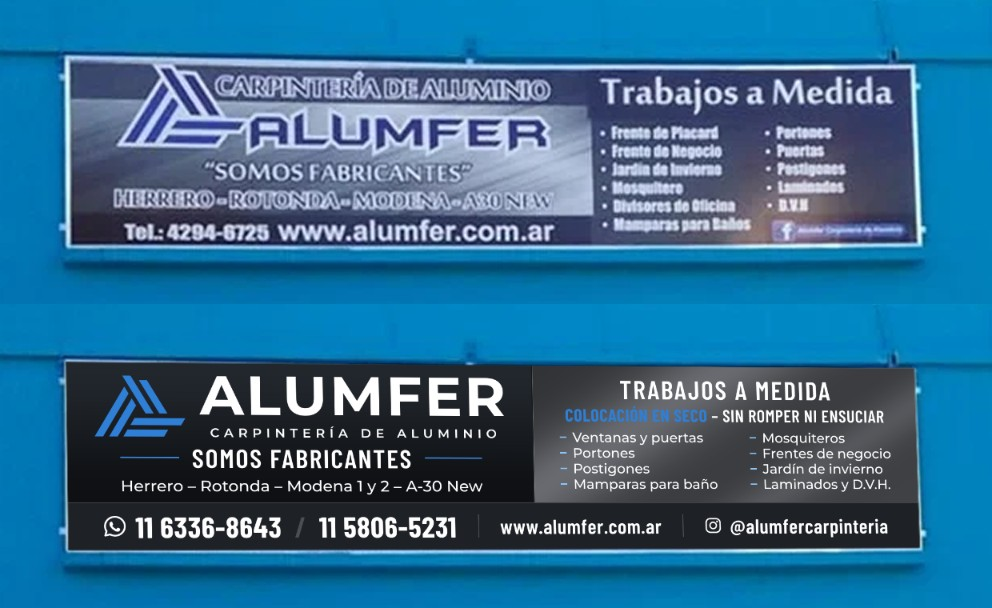
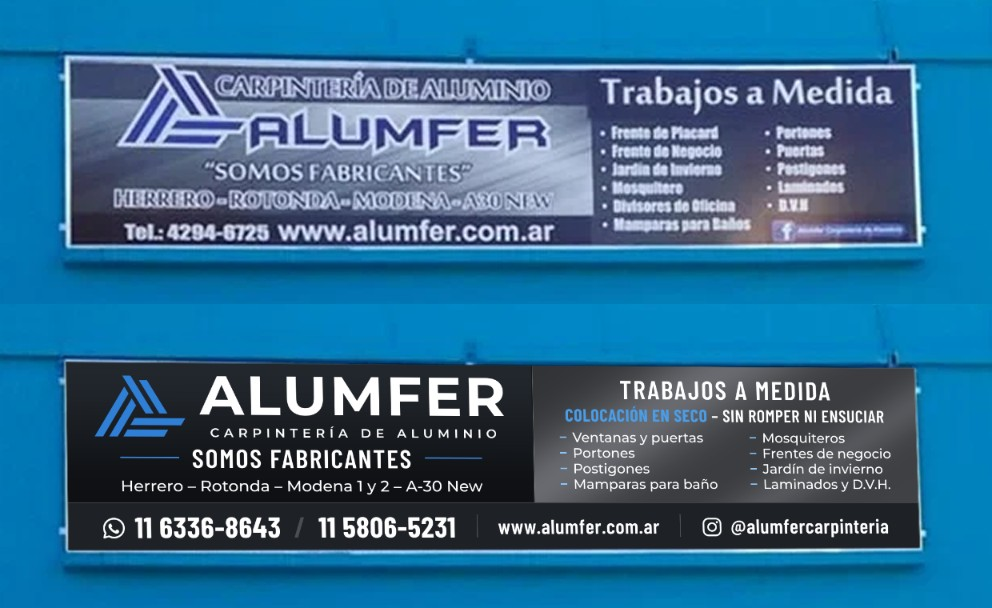
Cartel del frente: Colocación en seco en azul claro de marca; íconos parejos
Colocación en seco pasa al azul claro de la marca (#4A9DE8) para leerse
sobre el metal; Instagram al mismo peso visual que WhatsApp y ambos
íconos centrados con su texto.

Claude-Session: https://claude.ai/code/session_01WbdF2nhts4fFgad8iUooNo

diff --git a/creative/content/projects/2026-09-cartel-frente/cartel.html b/creative/content/projects/2026-09-cartel-frente/cartel.html
@@ -45,7 +45,7 @@ html,body{background:#777}
 .right h2{font-family:C;font-weight:600;font-size:57px;letter-spacing:3.5px;text-transform:uppercase;line-height:.9;white-space:nowrap;text-align:center;padding-left:3.5px}
 /* frase de colocación: condensada como los otros destacados, a lo ancho del panel */
 .right .seco{align-self:center;margin:12px 0 16px;font-family:C;font-weight:600;font-size:38px;letter-spacing:1px;text-transform:uppercase;line-height:1;white-space:nowrap}
-.right .seco b{font-weight:700;color:#2f7fd6} /* mismo azul que el isologo */
+.right .seco b{font-weight:700;color:#4a9de8} /* azul claro de la marca (--blue-light): misma familia que el isologo, se lee mejor sobre el metal */
 .prod{display:grid;grid-template-columns:auto auto;justify-content:space-between;row-gap:5px}
 .prod div{display:flex;align-items:center;gap:13px;font-weight:500;font-size:29px;line-height:1;white-space:nowrap}
 .prod div::before{content:"";width:14px;height:3px;background:#8cc3f8;flex:0 0 auto}
@@ -65,9 +65,10 @@ html,body{background:#777}
 .band svg{width:40px;height:40px;flex:0 0 auto}
 /* web e Instagram: condensada como los teléfonos, pero en seminegrita y más chica */
 .band .soc{font-family:C;font-weight:600;font-size:44px;letter-spacing:1px}
+.band .soc svg{width:49px;height:49px;transform:translateY(3px)} /* mismo peso visual que el de WhatsApp, centrado con el texto */
 /* teléfonos: lo más grande de la franja */
 .band .wa{font-family:C;font-weight:700;font-size:62px;letter-spacing:1px;gap:16px}
-.band .wa svg{width:52px;height:52px}
+.band .wa svg{width:52px;height:52px;transform:translateY(4px)}
 .band i{width:2px;height:50px;background:rgba(255,255,255,.2)}
 /* barra entre los dos WhatsApp: mismo gris que las líneas separadoras */
 .band em{font-style:normal;font-weight:400;color:rgba(255,255,255,.2);margin:0 10px}

diff --git a/creative/content/projects/2026-09-cartel-frente/README.md b/creative/content/projects/2026-09-cartel-frente/README.md
@@ -31,7 +31,7 @@ del volante 10×15 (`2026-07-volante-10x15`, rama `claude/alumfer-instagram-caro
 | **Para la imprenta (imagen)** | `export/IMPRENTA_Alumfer_cartel_550x130cm_TAMANO_REAL_72dpi.png` — 15591 × 3685 px = 550 × 130 cm a 72 dpi |
 | Para ver / compartir | `Alumfer_cartel_5400x1200.png`, `Alumfer_cartel_10800x2400_alta.png` (sin sangrado) |
 | Volumen | Degradé vertical sutil en el fondo de la marca, filo fino (sombra + luz) en el borde del panel metálico, filo de luz sobre la franja de contacto (sin sombras en los textos). Todo vectorial |
-| Texto | Todo el texto en blanco puro `#FFFFFF`, salvo "Colocación en seco" (azul del isologo) y la "/" entre teléfonos (gris separador) |
+| Texto | Todo el texto en blanco puro `#FFFFFF`, salvo "Colocación en seco" (azul claro de la marca) y la "/" entre teléfonos (gris separador) |
 | Colores | Oscuro `#121518` (marca), **metalizado** gris cepillado en la columna de Trabajos a medida (como el cartel original; hecho con franjas vectoriales), grafito `#1e2227` (franja de contacto). Azul `#2f7fd6` (isologo) / `#3d8be0` (filetes), blanco |
 | Tipografía | Montserrat (marca, lista, líneas, web) + **Barlow Condensed** para todo lo que resalta (SOMOS FABRICANTES, TRABAJOS A MEDIDA, frase de colocación, teléfonos, web e Instagram). Todas en `assets/`, licencia OFL |
 
@@ -67,7 +67,7 @@ del volante 10×15 (`2026-07-volante-10x15`, rama `claude/alumfer-instagram-caro
 - **Carpintería de aluminio · ALUMFER** (isologo redibujado en vector: `assets/isologo.svg`)
 - **"Somos fabricantes"**
 - Herrero – Rotonda – Modena 1 y 2 – A-30 New
-- **COLOCACIÓN EN SECO – SIN ROMPER NI ENSUCIAR** (Barlow Condensed en mayúsculas, bajo Trabajos a medida; "Colocación en seco" con el azul del isologo `#2f7fd6`)
+- **COLOCACIÓN EN SECO – SIN ROMPER NI ENSUCIAR** (Barlow Condensed en mayúsculas, bajo Trabajos a medida; "Colocación en seco" en el azul claro de la marca `#4A9DE8`, que se lee mejor sobre el metal)
 - **Trabajos a medida:** ventanas y puertas, portones, postigones, mamparas para baño,
   mosquiteros, frentes de negocio, jardín de invierno, laminados y D.V.H.
   (sin divisores de oficina ni frentes de placard, para dar lugar a letra más grande)
